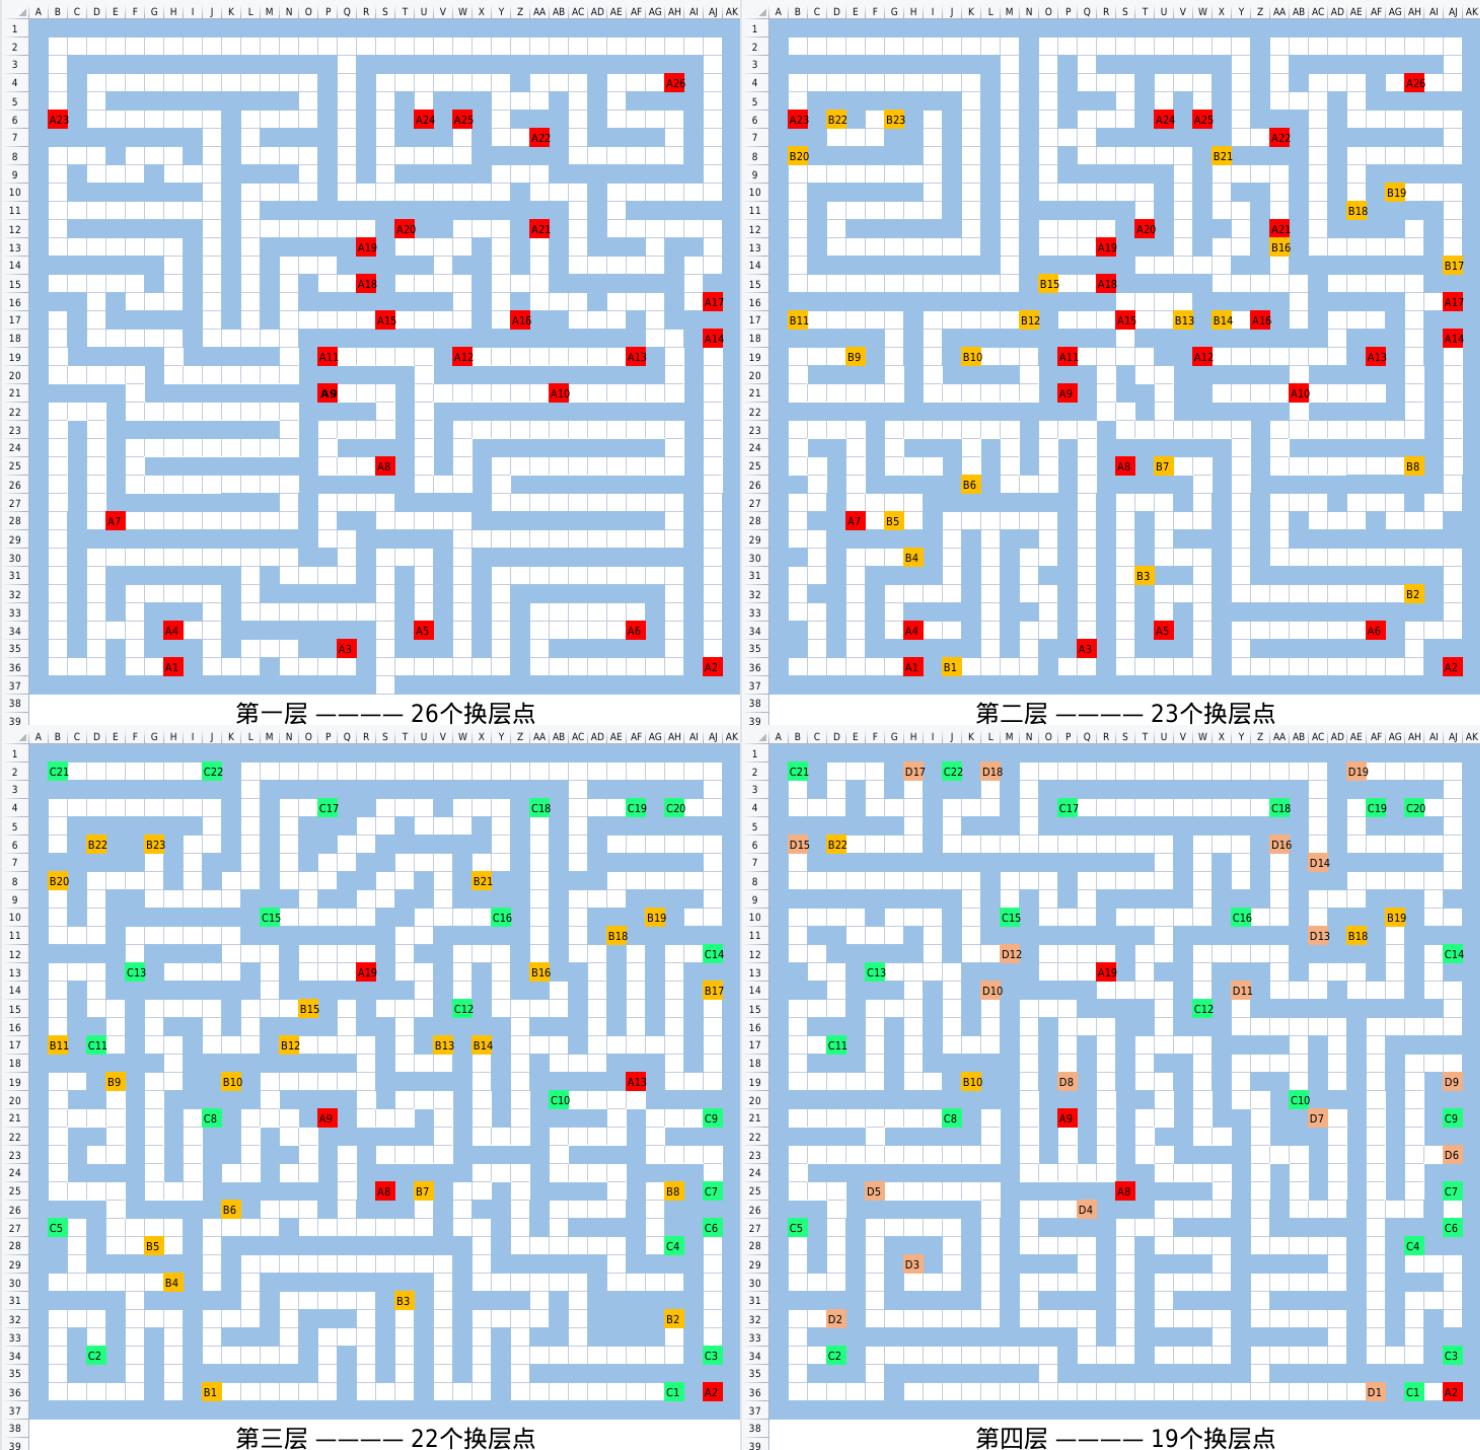
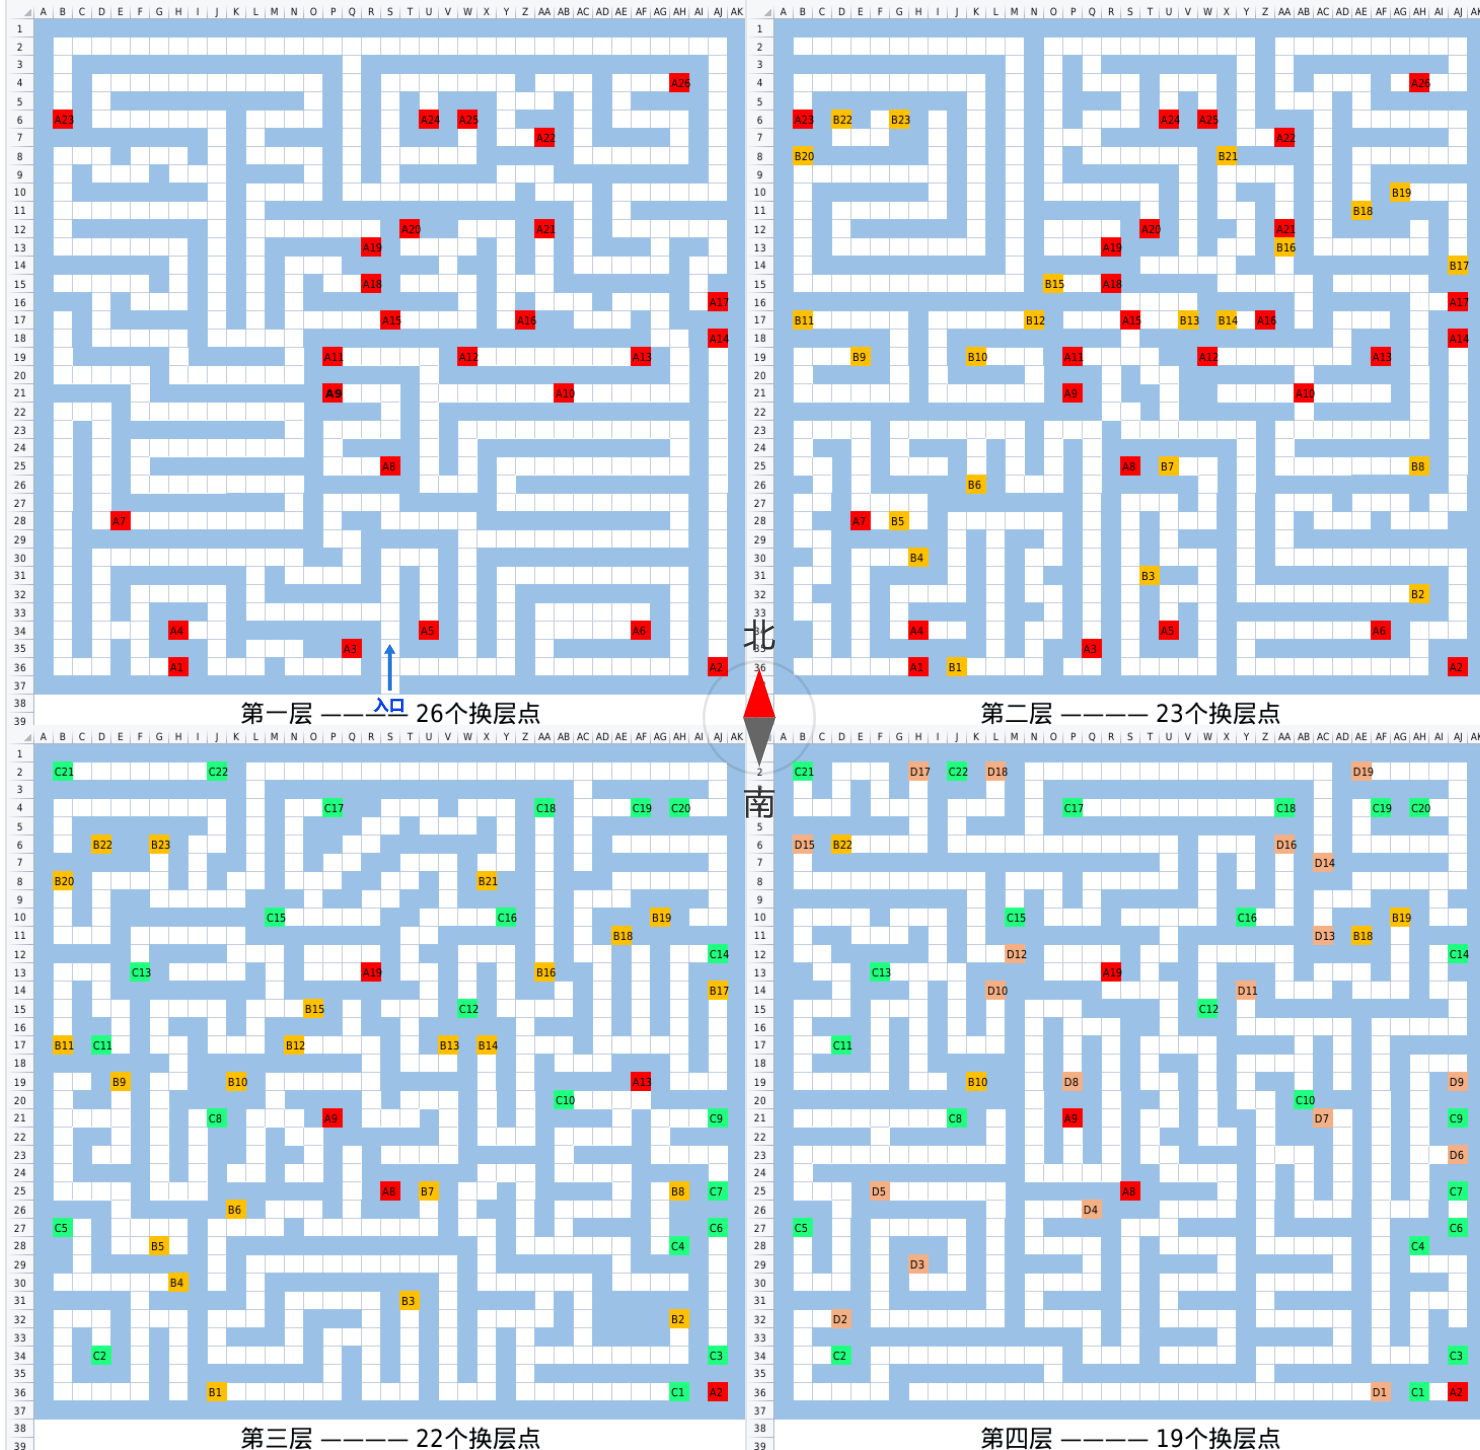
fix:Upt

Changed region(s): [[0.0, 0.0, 1.0, 1.0], [0.373, 0.2483, 0.4041, 0.2793]]

diff --git a/11 Other/YYSLS/1 燕云笔记.md b/11 Other/YYSLS/1 燕云笔记.md
@@ -1439,7 +1439,52 @@ graph TD
 | 凌虚一指回复     | 5 点         | 使用**凌虚一指**时回复      |
 | 弓箭弱点命中回复 | 3 点         | 使用弓箭命中敌人弱点时回复  |
 
+## 2.9 会心会意触发
 
+```mermaid
+flowchart TD
+    A[攻击] --> B{是否精准？}
+    B -->|否| C[未命中]
+    B -->|是| D[命中]
+
+    C --> E{是否会意？}
+    E -->|否| F[擦伤<br/>灰色伤害<br>（固定最小外攻）]
+    E -->|是| G[会意<br/>橙色伤害<br>（最大外功 × 1.35）]
+
+    D --> H{是否会心或会意？}
+    H -->|会意| G
+    H -->|会心| I[会心<br/>黄色伤害<br>（介于小外大外随机值 × 1.5）]
+    H -->|否| J[普通攻击<br/>白字伤害<br>（介于小外大外随机值）]
+
+    %% 背景色着色，字体全黑，边框加深以显眼
+    style F fill:#C0C0C0, stroke:#666666, color:#000000, stroke-width:2px
+    style G fill:#FF9900, stroke:#CC7700, color:#000000, stroke-width:2px
+    style I fill:#FFD700, stroke:#B8860B, color:#000000, stroke-width:2px
+    style J fill:#FFFFFF, stroke:#999999, color:#000000, stroke-width:2px
+```
+
+## 变量
+
+- 精准率 = P
+- 会心率 = C
+- 会意率 = Y
+
+## 各伤害概率
+
+- **会意伤害概率** = Y
+- **会心伤害概率** = C × P
+- **擦伤概率** = (1 - Y) × (1 - P)
+- **白字（普通攻击）概率** = P × [1 - (C + Y)]
+
+## 校验
+
+四项相加恒等于 1。
+
+四项之和：
+
+Y + C·P + (1-Y)(1-P) + P·[1-(C+Y)]
+= Y + CP + 1 - Y - P + YP + P - PC - PY
+= 1
 
 # 3 尘鸢双镖
 
@@ -1806,20 +1851,46 @@ PVE防具套无要求，PVP选江凝套
 > 敏(325明川药典提升9.9%会心率千香引魂蛊提升85.8小外)
 > 小外达到750(提升25%扇子重击治疗提升25%挂伞会心治疗强化)
 > 小牵丝达到375(属攻治疗加成提高12.6%牵丝穿透提高25.2)
-> 
->大外>劲>小外
+>
+> 大外>劲>小外
 > 1劲=0.225小外+1.36大外
 > 首词条可以刷出重复词条
 
-| 装备 | 首词条            | 调律词条        | 定音               |
-| ---- | ----------------- | --------------- | ------------------ |
-| 扇子 | 最大外功攻击      | 扇武学增效+大外 | 外攻穿透           |
-| 伞   | 最大外功攻击      | 伞武学增效+大外 | 外攻穿透           |
-| 环佩 | 最大外功攻击      | 2全武+大外      | 外攻穿透           |
-| 冠胄 | 会心              | 大外            | 明川药典治疗技增疗 |
-| 胸甲 | 会心              | 大外            | 明川药典治疗技增疗 |
-| 胫甲 | 劲/会心(更推荐劲) | 玩家增效+大外   | 明川药典治疗技增疗 |
-| 腕甲 | 劲/会心(更推荐劲) | 玩家增效+大外   | 明川药典治疗技增疗 |
+### 大外奶霖词条
 
----
+浣花梨雪套+梨雪套
+
+凑齐：12条大外 +10条劲+2全武学+1扇增+2玩家增效+6会心+3敏+4小外
+
+11A = 4会心+3敏+4小外
+
+| 装备 | 首词条       | 调律词条           | 定音               |
+| ---- | ------------ | ------------------ | ------------------ |
+| 扇   | 最大外功攻击 | 扇增+大外+劲+A     | 外攻穿透           |
+| 伞   | 最大外功攻击 | 大外+劲+2A         | 外攻穿透           |
+| 环   | 最大外功攻击 | 全武+大外+劲+A     | 外攻穿透           |
+| 佩   | 最大外功攻击 | 全武+大外+劲+A     | 外攻穿透           |
+| 冠胄 | 会心         | 大外+劲+2A         | 明川药典治疗技增疗 |
+| 胸甲 | 会心         | 大外+劲+2A         | 明川药典治疗技增疗 |
+| 胫甲 | 劲           | 玩家增效+大外+劲+A | 明川药典治疗技增疗 |
+| 腕甲 | 劲           | 玩家增效+大外+劲+A | 明川药典治疗技增疗 |
+
+### 大外火拳奶词条
+
+时雨套
+
+凑齐：12条大外 +10条劲+2首领增效+2单体奇术增伤+2精准+8会心+3敏+1势/小外
+
+12A = 6会心+3敏+2精准+1势/小外
+
+| 装备 | 首词条       | 调律词条               | 定音               |
+| ---- | ------------ | ---------------------- | ------------------ |
+| 扇   | 最大外功攻击 | 大外+劲+2A             | 外攻穿透           |
+| 伞   | 最大外功攻击 | 大外+劲+2A             | 外攻穿透           |
+| 环   | 最大外功攻击 | 大外+劲+2A             | 外攻穿透           |
+| 佩   | 最大外功攻击 | 大外+劲+2A             | 外攻穿透           |
+| 冠胄 | 会心         | 单体奇术增伤+大外+劲+A | 明川药典治疗技增疗 |
+| 胸甲 | 会心         | 单体奇术增伤+大外+劲+A | 明川药典治疗技增疗 |
+| 胫甲 | 劲           | 首领增效+大外+劲+A     | 明川药典治疗技增疗 |
+| 腕甲 | 劲           | 首领增效+大外+劲+A     | 明川药典治疗技增疗 |
 

diff --git a/5 ROS2/0 ROS2.md b/5 ROS2/0 ROS2.md
@@ -157,7 +157,7 @@ ament_target_dependencies(rclcpp
 sudo apt-get install ros-$ROS_DISTRO-rqt
 sudo apt-get install ros-$ROS_DISTRO-rqt-common-plugins
 ```
-![[4.png]]
+![[5 ROS2/assets/4.png]]
 ## 3.1 topic
 ```shell
 # 查看话题信息

diff --git a/9 Tools/0 Ubuntu.md b/9 Tools/0 Ubuntu.md
@@ -1,4 +1,4 @@
-# 1 app open when system start
+a# 1 app open when system start
 
 ## 1.1 图形化操作增加指令
 ```shell
